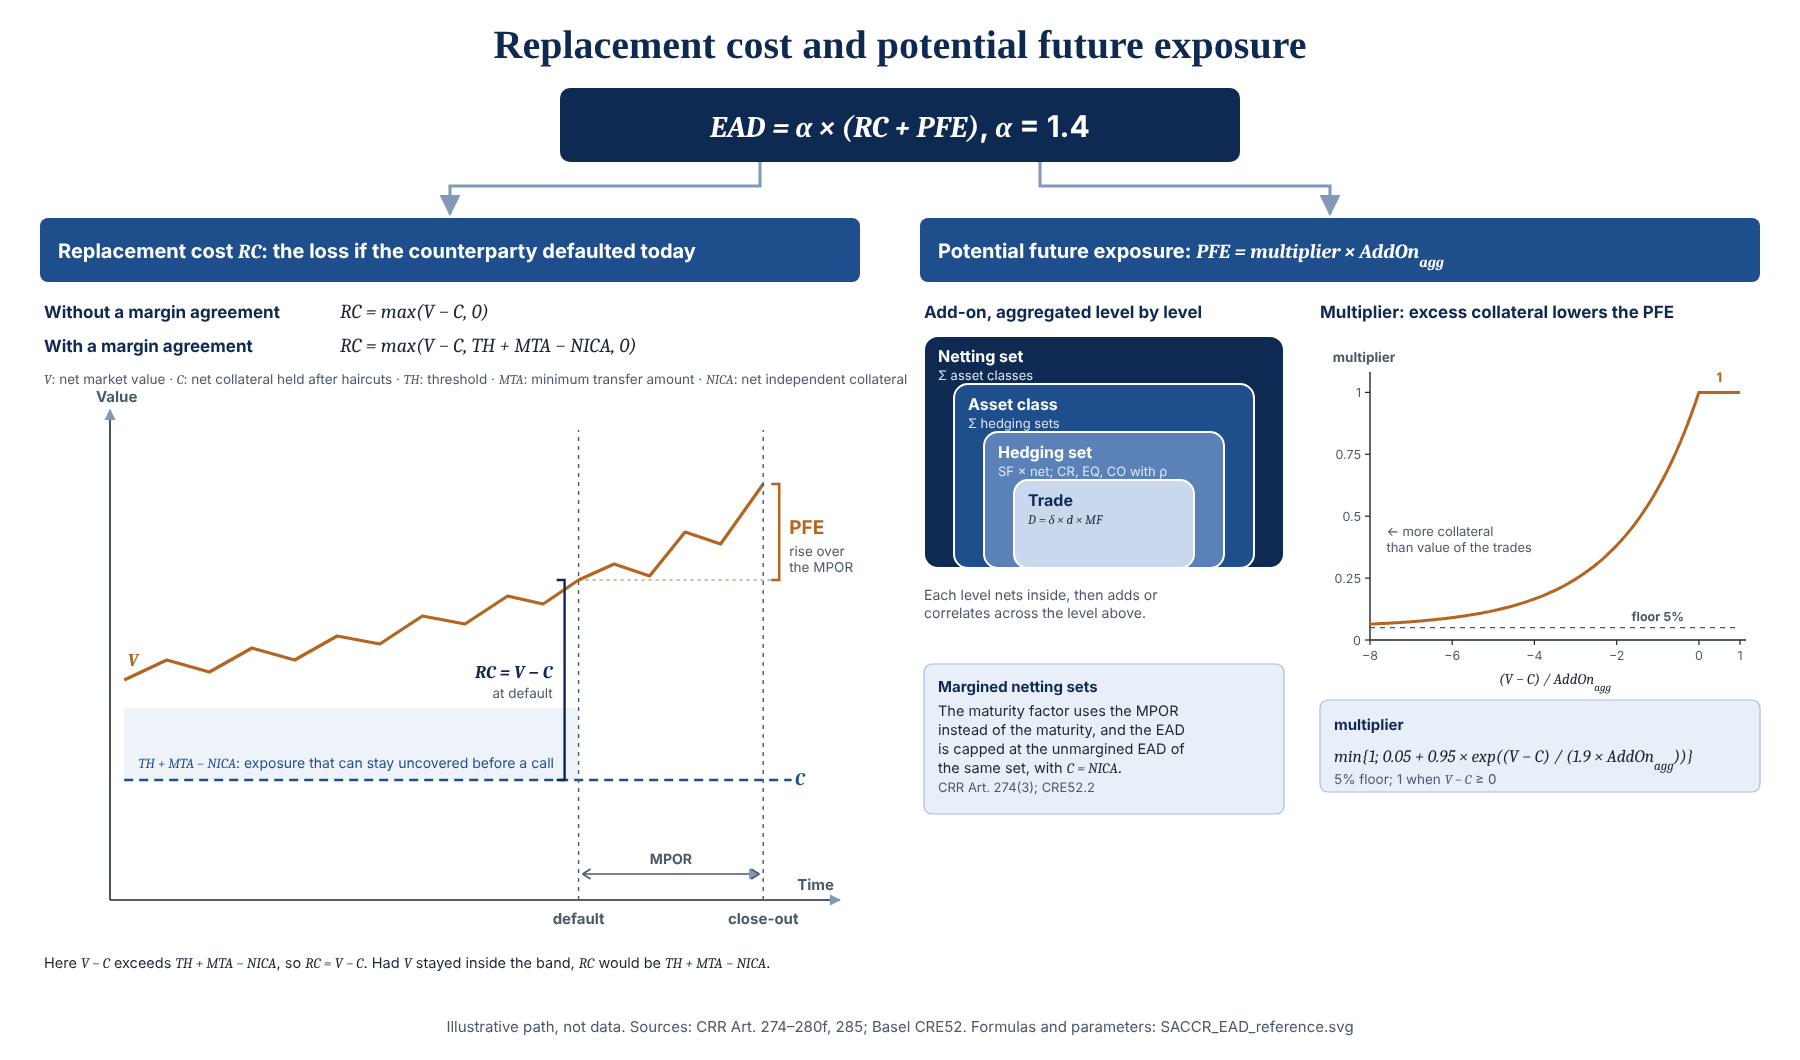
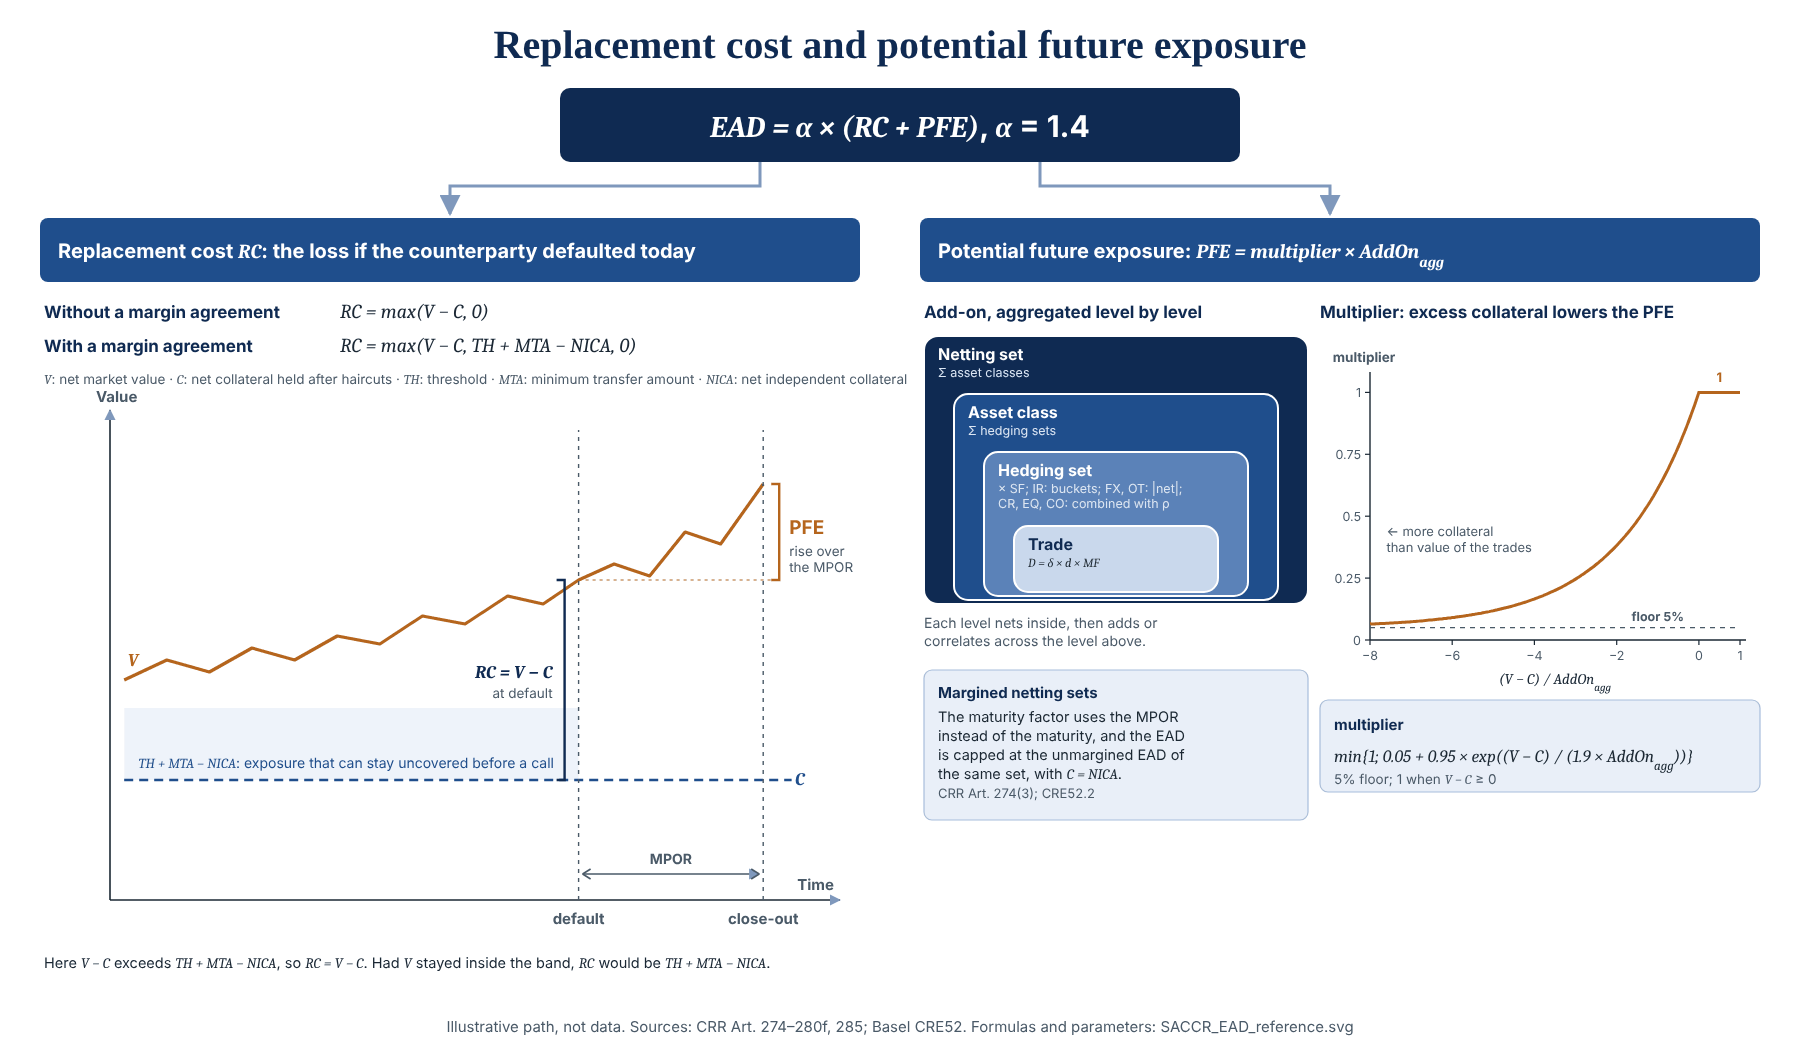
Name each class's hedging-set step in the RC/PFE picture
Review findings:
- The add-on levels labelled the hedging set "SF x net" for every class.
  They now say × SF with IR buckets, the absolute net for FX and OT, and
  the correlation for CR, EQ and CO, as the aggregation picture and
  CORE_Engine.ComputeHedgingSets do.
- The methodology's alt text for the tree now names the correlations
  between IR maturity buckets beside those of credit and equity entities
  and commodity types.

SACCR_RC_PFE PNG re-rendered (1800 x 1060 px). tools/check.py passes.

Changed region(s): [[0.4978, 0.3113, 0.7467, 0.7783], [0.6844, 0.7472, 0.7156, 0.7783], [0.6844, 0.6226, 0.7156, 0.6538]]

diff --git a/docs/methodology/README.md b/docs/methodology/README.md
@@ -20,7 +20,7 @@ picture summarises them and is not a source (select it to open it full size):
 <p align="center">
   <a href="../assets/SACCR_EAD_tree.svg">
     <img width="100%"
-         alt="What the exposure value is made of: EAD = alpha x (RC + PFE); RC from V - C and, when margined, TH + MTA - NICA; PFE from the multiplier (V - C, the aggregate add-on, a 5% floor) and the aggregate add-on, built from supervisory factors, correlations for credit, equity and commodity, and effective notionals D = delta x d x MF with their trade-level inputs"
+         alt="What the exposure value is made of: EAD = alpha x (RC + PFE); RC from V - C and, when margined, TH + MTA - NICA; PFE from the multiplier (V - C, the aggregate add-on, a 5% floor) and the aggregate add-on, built from supervisory factors, correlations (between IR maturity buckets, credit and equity entities, and commodity types) and effective notionals D = delta x d x MF with their trade-level inputs"
          src="../assets/SACCR_EAD_tree.svg">
   </a>
 </p>
